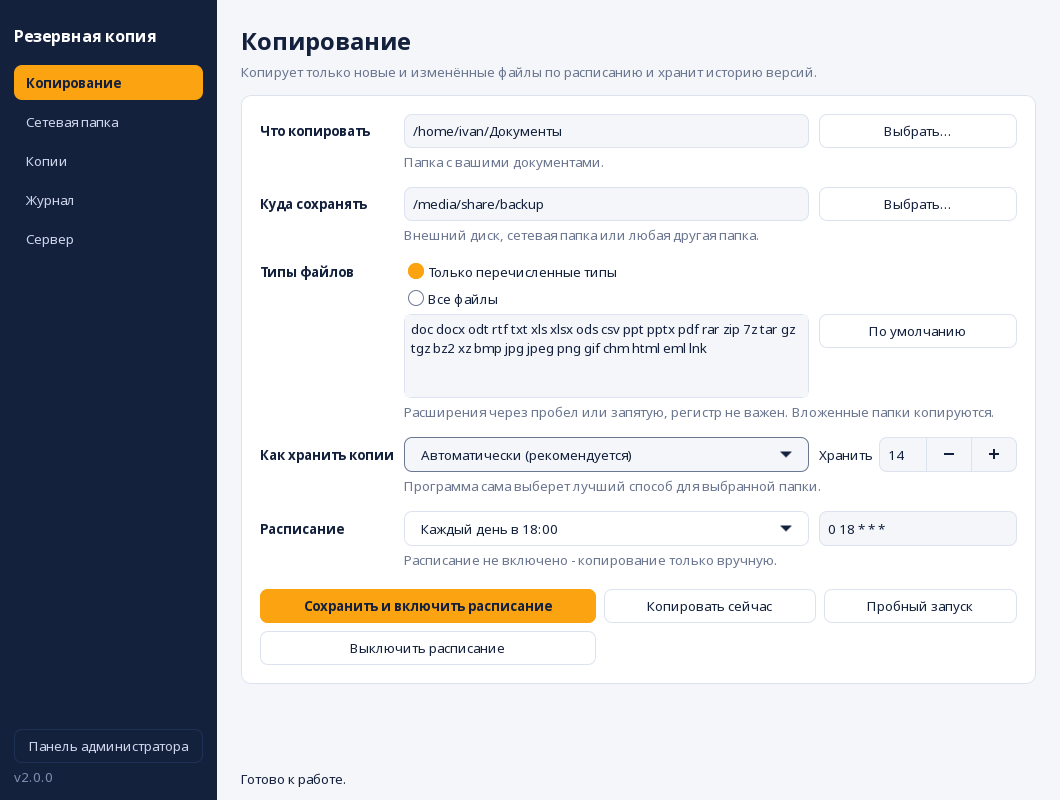
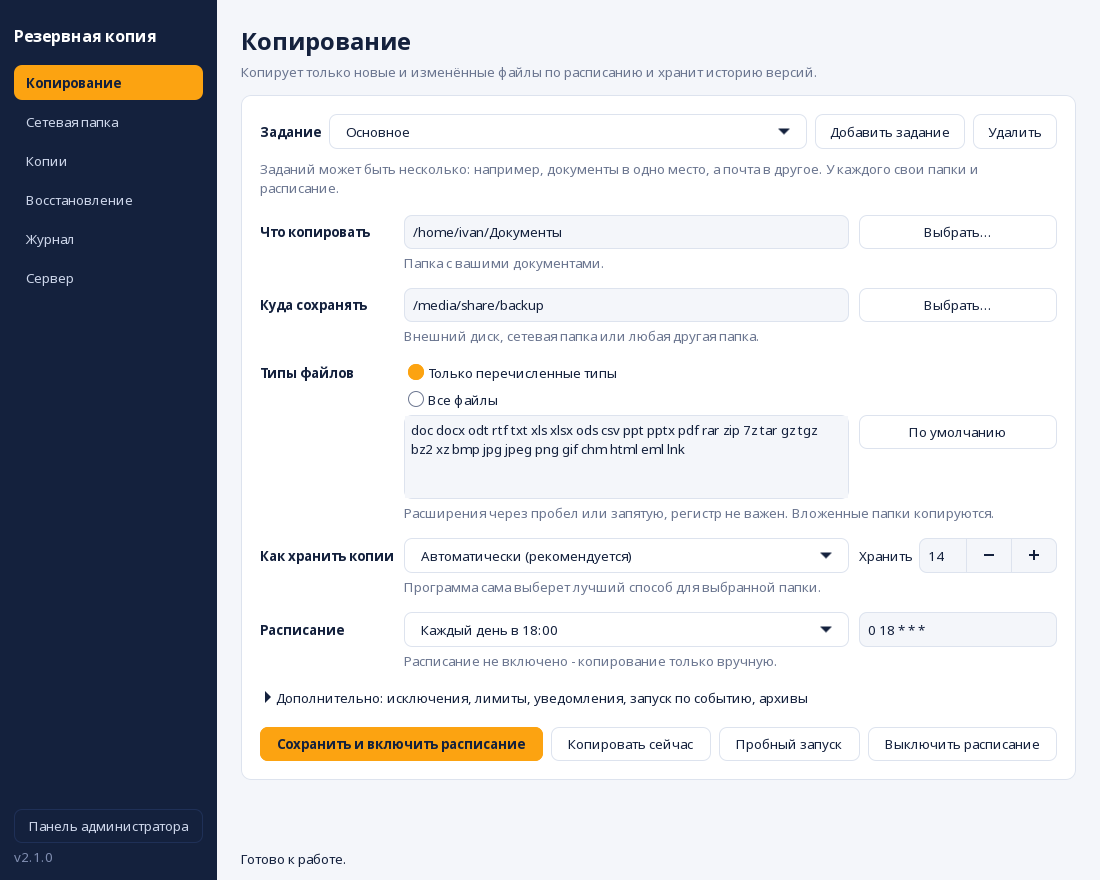
README: описание всех возможностей, новые скриншоты

diff --git a/README.md b/README.md
@@ -18,28 +18,53 @@ python3 crontab-save.py
 
 ![Окно программы](docs/screenshot.png)
 
-Откроется окно с боковым меню: Копирование, Сетевая папка, Копии, Журнал и Сервер. Если не хватает программ (rsync, cron, autofs,
+Откроется окно с боковым меню: Копирование, Сетевая папка, Копии, Восстановление, Журнал и Сервер. Если не хватает программ (rsync, cron, autofs,
 cifs-utils), сверху появится жёлтая полоса с кнопкой «Установить».
 
 ### Раздел «Копирование»
 
 1. Выберите папку, которую копируем, и папку, куда складываем копии.
-2. Выберите типы файлов (по умолчанию документы, таблицы, презентации, PDF, архивы,
-   картинки, письма) или «Все файлы».
+2. Выберите типы файлов (по умолчанию документы, таблицы, презентации, PDF, архивы, картинки, письма) или «Все файлы».
 3. Выберите расписание и нажмите **«Сохранить и включить расписание»**.
+
+Заданий может быть **несколько** (например, документы в одно место, почта в другое): у каждого свои папки и свой
+cron. Раздел «Дополнительно» открывает остальные настройки:
+
+| Настройка | Что делает |
+|---|---|
+| Не копировать | Папки и маски: `node_modules/`, `*.tmp`, `Загрузки/`. |
+| Файлы больше N МБ, скорость | Пропускает слишком большие файлы, ограничивает скорость (КБ/с). |
+| Низкий приоритет | Копирование идёт с `nice`/`ionice` и не мешает работать. |
+| Уведомления | Всплывающее сообщение на рабочем столе: ничего, только ошибки или всё. |
+| Свободное место | Перед копированием оценивается объём; если места не хватит, старые копии удаляются (по желанию) или выдаётся понятная ошибка. |
+| При подключении диска | Копирование запускается, когда подключили флешку или сетевую папку. |
+| Догнать пропущенное | ПК был выключен, копии нет дольше N часов: копирование запустится при включении. |
+| Проверка целостности | Раз в N дней сверяются контрольные суммы (см. ниже). |
+| Упаковка и шифрование архивов | Режим «зеркало»: старые архивы версий упаковываются в `.tar.gz` и шифруются AES-256. |
 
 Кнопка «Пробный запуск» показывает, что было бы скопировано, ничего не копируя.
 
+### Раздел «Восстановление»
+
+Введите часть имени файла (или маску `*.xlsx`): программа ищет по **всем** копиям, включая упакованные и
+зашифрованные, и показывает каждую версию файла. «Восстановить на прежнее место» или «в папку…». Существующие
+файлы **не затираются**: рядом появляется копия с пометкой «восстановлено». В консоли: `find` и `restore`.
+
 ### Раздел «Сетевая папка»
 
-Подключает папку на сервере Windows/Samba (SMB) через autofs. Введите адрес, имя
-подключения, пользователя, домен и пароль. Программа запросит пароль администратора
-и после подключения предложит сохранять копии в эту папку.
+Подключает папку на сервере Windows/Samba (SMB) через autofs. Введите адрес, имя подключения, пользователя, домен и
+пароль. Программа запросит пароль администратора и после подключения предложит сохранять копии в эту папку.
 
 ### Разделы «Копии» и «Журнал»
 
-Список сохранённых копий (двойной щелчок открывает папку) и журнал работы.
-**Чтобы восстановить файл**, откройте нужную копию и скопируйте файл оттуда.
+Список сохранённых копий (двойной щелчок открывает папку), кнопка **«Проверить целостность»** и журнал работы.
+Проверка ловит порчу данных на диске: повреждённым считается файл, у которого размер и время те же, а содержимое
+другое. Файлы, которые вы сами изменили после копирования, повреждёнными не считаются.
+
+### Раздел «Сервер»
+
+Подключение этого ПК к панели администратора (подробнее ниже), предложение обновить программу и кнопка
+«Установить ярлык и команду».
 
 ## Как хранятся копии
 
@@ -54,85 +79,127 @@ cifs-utils), сверху появится жёлтая полоса с кноп
 
 ## Оформление
 
-Окно в стиле «Панель управления»: тёмно-синее боковое меню (Копирование, Сетевая папка, Копии,
-Журнал), оранжевый акцент, настройки в белых карточках на светлом фоне. Вся тема лежит в
+Окно в стиле «Панель управления»: тёмно-синее боковое меню, оранжевый акцент, настройки в белых карточках на светлом фоне. Вся тема лежит в
 `crontab-save.py` (раздел «Оформление окна»), цвета меняются в одном словаре `PALETTE`.
 
 ## Панель администратора
 
-Одна программа - два режима. На ПК сотрудников работает **клиент** (окно из предыдущих разделов), а на
-ПК администратора - **панель** вместе с **сервером**. Панель открывается кнопкой **«Панель администратора»**
-внизу левого меню обычного окна или командой `python3 crontab-save.py admin`.
+Одна программа - два режима. На ПК сотрудников работает **клиент** (окно выше), а на ПК администратора - **панель**
+вместе с **сервером**. Панель открывается кнопкой **«Панель администратора»** внизу левого меню или командой
+`python3 crontab-save.py admin`.
 
-![Панель администратора](docs/admin.png)
+![Обзор](docs/admin.png)
+![Компьютеры](docs/admin-computers.png)
 
-В панели:
+Разделы панели:
 
-- список всех ПК с ФИО, именем, IP, пользователем, итогом последнего копирования и примечанием;
-- ФИО и примечание правятся прямо в таблице или в карточке ПК и **сохраняются на сервере** (база SQLite);
-- **IP обновляется сам**: по адресу, с которого пришёл запрос, а для давно молчащих ПК - по имени
-  компьютера; кнопка «Найти ПК в сети» просматривает подсеть и подхватывает найденные адреса;
-- удалённые действия над одним или несколькими ПК сразу: сменить папки, режим, расписание, **создать
-  папку** там, где укажет администратор (можно сразу назначить её источником или местом копий),
-  запустить копирование;
-- журнал команд (выполнена, ошибка, ждёт ПК) с отменой, поиск по списку, частота опроса.
+- **Обзор:** сколько ПК в сети, проблемы (копирование не удалось, давно нет копии, мало места, повреждения,
+  нет связи), ПК вне политики, ПК с устаревшей программой и график объёма копирования за 30 дней.
+- **Компьютеры:** все ПК с ФИО, именем, IP, пользователем, группой, итогом копирования и примечанием. ФИО и
+  примечание правятся прямо в таблице и хранятся на сервере. Поиск, фильтр по группам, экспорт в CSV (открывается в
+  Excel) и «Печать / PDF», загрузка списка из CSV. Над выбранными ПК (можно над несколькими сразу):
+  - **Папки и расписание:** сменить папки, режим, время, исключения, лимиты и любые другие настройки, создать
+    папки, выбрать задание или создать новое. Кнопка **«Обзор…»** показывает дерево папок самого ПК. Команду можно
+    выполнить сразу или в заданное время («сегодня в 02:00»).
+  - **Создать папку** там, где укажете (можно сразу назначить её источником или местом копий).
+  - **Восстановить файл…** на ПК, **Журнал ПК…**, **Копировать сейчас**, **Проверить копии**.
+  - **Группа…**, **Частота опроса…**, **Включить по сети** (Wake-on-LAN), **Заменить ПК…** (новый ПК получает
+    ФИО, группу и настройки старого), **Обновить клиент**, **Отозвать ключ**, **Удалить из списка**.
+- **Политики:** настройки, которые должны быть у всех ПК группы. Применяются кнопкой или поддерживаются
+  автоматически: если настройки ПК разошлись с политикой, они возвращаются сами (не чаще раза в 10 минут).
+- **Команды:** что отправлено и чем закончилось, ответы целиком, отмена ожидающих.
+- **Журнал действий:** кто из администраторов и когда что менял.
+- **Сервер:** адрес и ключи, оповещения (почта и Telegram), администраторы и роли, резервная копия базы,
+  обновление клиентов.
+
+**IP обновляется сам:** по адресу, с которого пришёл запрос; для давно молчащих ПК - по имени компьютера; кнопка
+«Найти ПК в сети» просматривает подсеть и подхватывает найденные адреса.
 
 ### Быстрый старт
 
-1. На ПК администратора: кнопка «Панель администратора» в окне программы (или `python3 crontab-save.py admin`). При первом запуске панель предложит поднять сервер
-   здесь. Ключ для компьютеров показан в разделе «Сервер».
+1. На ПК администратора: кнопка «Панель администратора» (или `python3 crontab-save.py admin`). При первом запуске
+   панель предложит поднять сервер здесь. Общий ключ подключения показан в разделе «Сервер».
    Чтобы сервер работал постоянно, а не пока открыта панель: `python3 crontab-save.py server`
    (как служба: `python3 crontab-save.py server-unit`).
-2. Откройте порты: `sudo firewall-cmd --permanent --add-port=8765/tcp --add-port=8766/udp && sudo firewall-cmd --reload`.
-   (8765 - работа, 8766 - автопоиск сервера клиентами.)
-3. На каждом ПК сотрудника: окно crontab-save, раздел «Сервер»: «Найти в сети», ключ, «Подключить».
-   Или командой: `python3 crontab-save.py agent-setup --key КЛЮЧ` (адрес сервера найдётся сам;
-   если нет - добавьте `--server 192.168.0.10`).
+2. Откройте порты: `sudo firewall-cmd --permanent --add-port=8765/tcp --add-port=8766/udp && sudo firewall-cmd --reload`
+   (8765 - работа, 8766 - автопоиск сервера клиентами).
+3. На каждом ПК сотрудника: окно crontab-save, раздел «Сервер»: «Найти в сети», ключ, «Подключить». Или командой
+   `python3 crontab-save.py agent-setup --key КЛЮЧ` (адрес найдётся сам, иначе добавьте `--server 192.168.0.10`).
+4. Список сотрудников можно загрузить из таблицы: «Загрузить список…» (столбцы «Имя ПК», «ФИО», «Группа»,
+   «Примечание»). Для ПК, которых ещё нет в сети, данные подставятся при их первом подключении.
+
+### Оповещения
+
+Раздел «Сервер»: пороги («давно нет копии» N дней, «нет связи» N часов, «мало места» N ГБ), почта (SMTP) и Telegram.
+Сообщение уходит один раз, когда проблема появляется. Кнопка «Отправить проверочное сообщение» проверяет настройки.
 
 ### Как это устроено и что важно знать
 
 - **Клиент сам обращается к серверу**, сервер к ПК не подключается: на ПК сотрудников нет открытых портов.
-  Клиент запускается cron раз в минуту, но по сети выходит на связь только раз в **интервал**, который
-  задаёт администратор (по умолчанию 5 минут; для всех - в разделе «Сервер», для одного ПК - «Частота
-  опроса»). Команда выполняется при ближайшем обращении, поэтому ждать её до интервала. Минимум 1 минута.
-- **Команды выполняются с правами пользователя ПК**, а не root: пароль администратора не нужен, но и недоступное
-  пользователю (чужие домашние папки, системные каталоги) создать нельзя. Результат команды виден в журнале.
-  Каждая команда записывается в журнал клиента.
-- **Защита:** общий секретный ключ. Каждый запрос и каждый ответ подписаны (HMAC-SHA256 с временем и
-  одноразовым числом), поэтому без ключа нельзя ни отдать команду, ни подделать ответ сервера, ни повторить
-  перехваченный запрос. Ключ администратора отдельный: ПК, у которого есть только ключ клиентов, управлять
-  другими ПК не может. **Трафик не шифруется**, поэтому используйте только в доверенной локальной сети.
-  Ключи лежат в `~/.config/crontab-save/` с правами 0600.
-- Часы на ПК не должны расходиться с сервером больше чем на 10 минут (иначе запрос отклоняется).
-- Если ПК не выходит на связь, он показывается как «ping есть» (включён, но клиент молчит) или «не отвечает».
-  ФИО, примечания и очередь команд при этом сохраняются.
+  Клиент запускается cron раз в минуту, но по сети выходит на связь только раз в **интервал**, который задаёт
+  администратор (по умолчанию 5 минут; для всех - в разделе «Сервер», для одного ПК - «Частота опроса»). Команда
+  выполняется при ближайшем обращении. Минимум 1 минута. Когда администратор ждёт ответа ПК (обзор папок, поиск файла,
+  журнал), опрос этого ПК временно ускоряется.
+- **Команды выполняются с правами пользователя ПК**, а не root. Недоступное пользователю (чужие домашние папки,
+  системные каталоги) создать нельзя. Результат виден в журнале команд, каждая команда пишется в журнал клиента.
+- **Защита:**
+  - общим ключом компьютер только подключается; после этого сервер выдаёт ему **личный ключ**, который можно
+    отозвать (потерянный ПК перестаёт получать команды);
+  - у каждого администратора **свой ключ** и роль: *администратор* или *только просмотр*;
+  - каждый запрос и ответ подписаны (HMAC-SHA256 с временем и одноразовым числом): без ключа нельзя ни отдать
+    команду, ни подделать ответ сервера, ни повторить перехваченный запрос;
+  - все действия администраторов пишутся в журнал; пароль архивов не попадает в журналы и удаляется из очереди
+    после выдачи ПК.
+  Трафик **не шифруется**: сеть должна быть доверенной. Ключи лежат в `~/.config/crontab-save/` и в базе
+  сервера с правами 0600.
+- **Обновление клиентов** скачивает файл с сервера и проверяет подпись и синтаксис; прежний файл остаётся как `.bak`.
+  Работает, только если у пользователя есть права на запись в файл программы (при установке пакетом нужно обновлять
+  пакетом).
+- Часы на ПК не должны расходиться с сервером больше чем на 10 минут.
+- Если ПК не выходит на связь, он показывается как «ping есть» (включён, но клиент молчит) или «не отвечает». ФИО,
+  примечания и очередь команд при этом сохраняются.
+- База сервера копируется сама раз в сутки (7 копий рядом с базой). Полная выгрузка вместе с ключами:
+  `server-backup` и `server-restore`.
+
+## Установка
+
+- Для себя: `python3 crontab-save.py install-self` (копия файла, команда `crontab-save`, ярлык в меню).
+- Пакеты для рабочих станций: `python3 crontab-save.py package --out пакеты/` собирает `.deb` и `.rpm`
+  (для `.rpm` нужен `rpm-build`).
 
 ## Командная строка
 
 Cron вызывает ту же программу без окна:
 
 ```bash
-python3 crontab-save.py run                 # выполнить копирование
+python3 crontab-save.py run                 # выполнить копирование (все задания; --job имя - одно)
 python3 crontab-save.py run --dry-run       # показать, что будет скопировано
 python3 crontab-save.py status              # текущие настройки и расписание
 python3 crontab-save.py install-cron --schedule '0 18 * * 1-5'
 python3 crontab-save.py remove-cron
+python3 crontab-save.py verify              # проверка целостности копий
+python3 crontab-save.py find отчёт          # найти файл во всех копиях
+python3 crontab-save.py restore ПАПКА ПУТЬ  # восстановить файл (--target куда)
+python3 crontab-save.py watch               # наблюдатель (запуск при подключении диска, догон), вызывает cron
 ```
 
-Для сервера и клиента:
+Сервер и клиент:
 
 ```bash
 python3 crontab-save.py admin                    # панель администратора
 python3 crontab-save.py server                   # сервер без окна (--port, --bind, --no-discovery)
 python3 crontab-save.py server-info              # ключи сервера
+python3 crontab-save.py server-admin add --name kate --role viewer   # администратор (list, add, rotate, remove)
+python3 crontab-save.py server-report --format html > report.html    # отчёт (csv или html)
+python3 crontab-save.py server-import список.csv # загрузить ФИО, группы, примечания
+python3 crontab-save.py server-backup            # выгрузить базу и ключи; server-restore ФАЙЛ - восстановить
 python3 crontab-save.py agent-setup --key КЛЮЧ   # подключить этот ПК (--server адрес, если автопоиск не сработал)
 python3 crontab-save.py agent-status             # состояние связи с сервером
 python3 crontab-save.py agent-remove             # отключить этот ПК
 python3 crontab-save.py discover                 # найти серверы в сети
 ```
 
-Настройки хранятся в `~/.config/crontab-save/config.json`, журнал - в
-`~/.local/state/crontab-save/backup.log`.
+Настройки хранятся в `~/.config/crontab-save/config.json`, журнал - в `~/.local/state/crontab-save/backup.log`.
 
 ## Что исправлено по сравнению с прежним `backup.sh`
 
